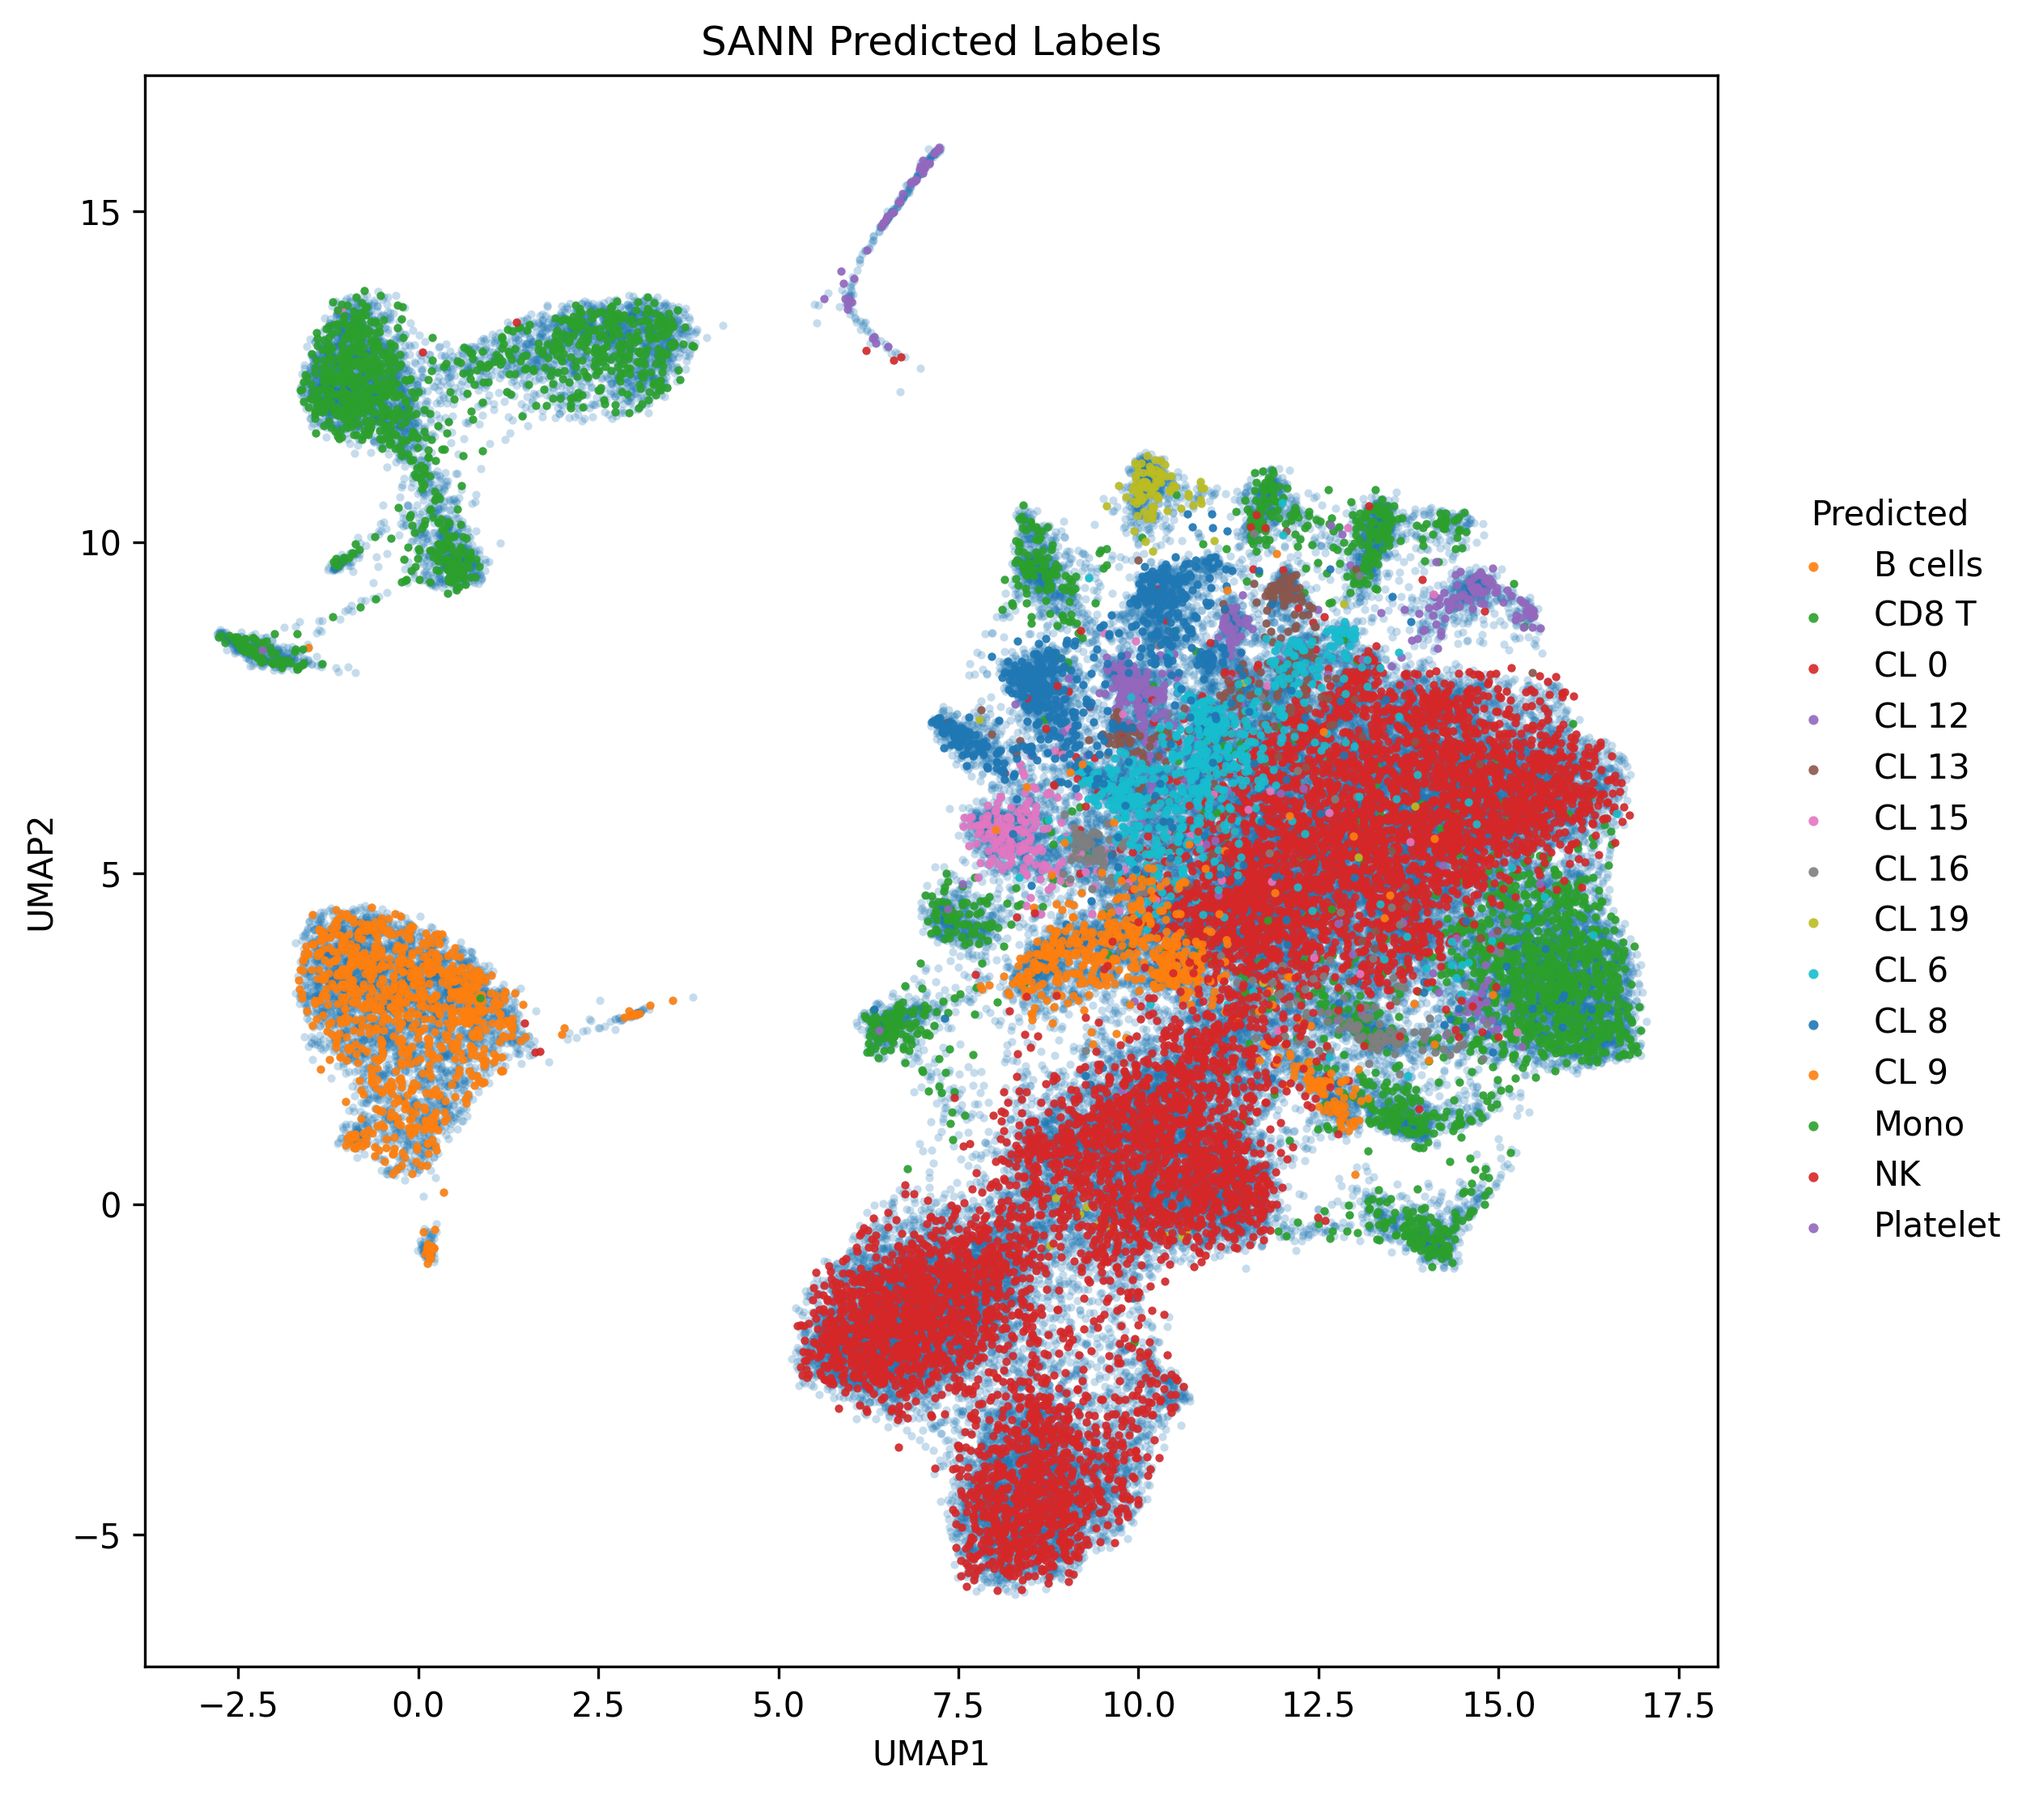
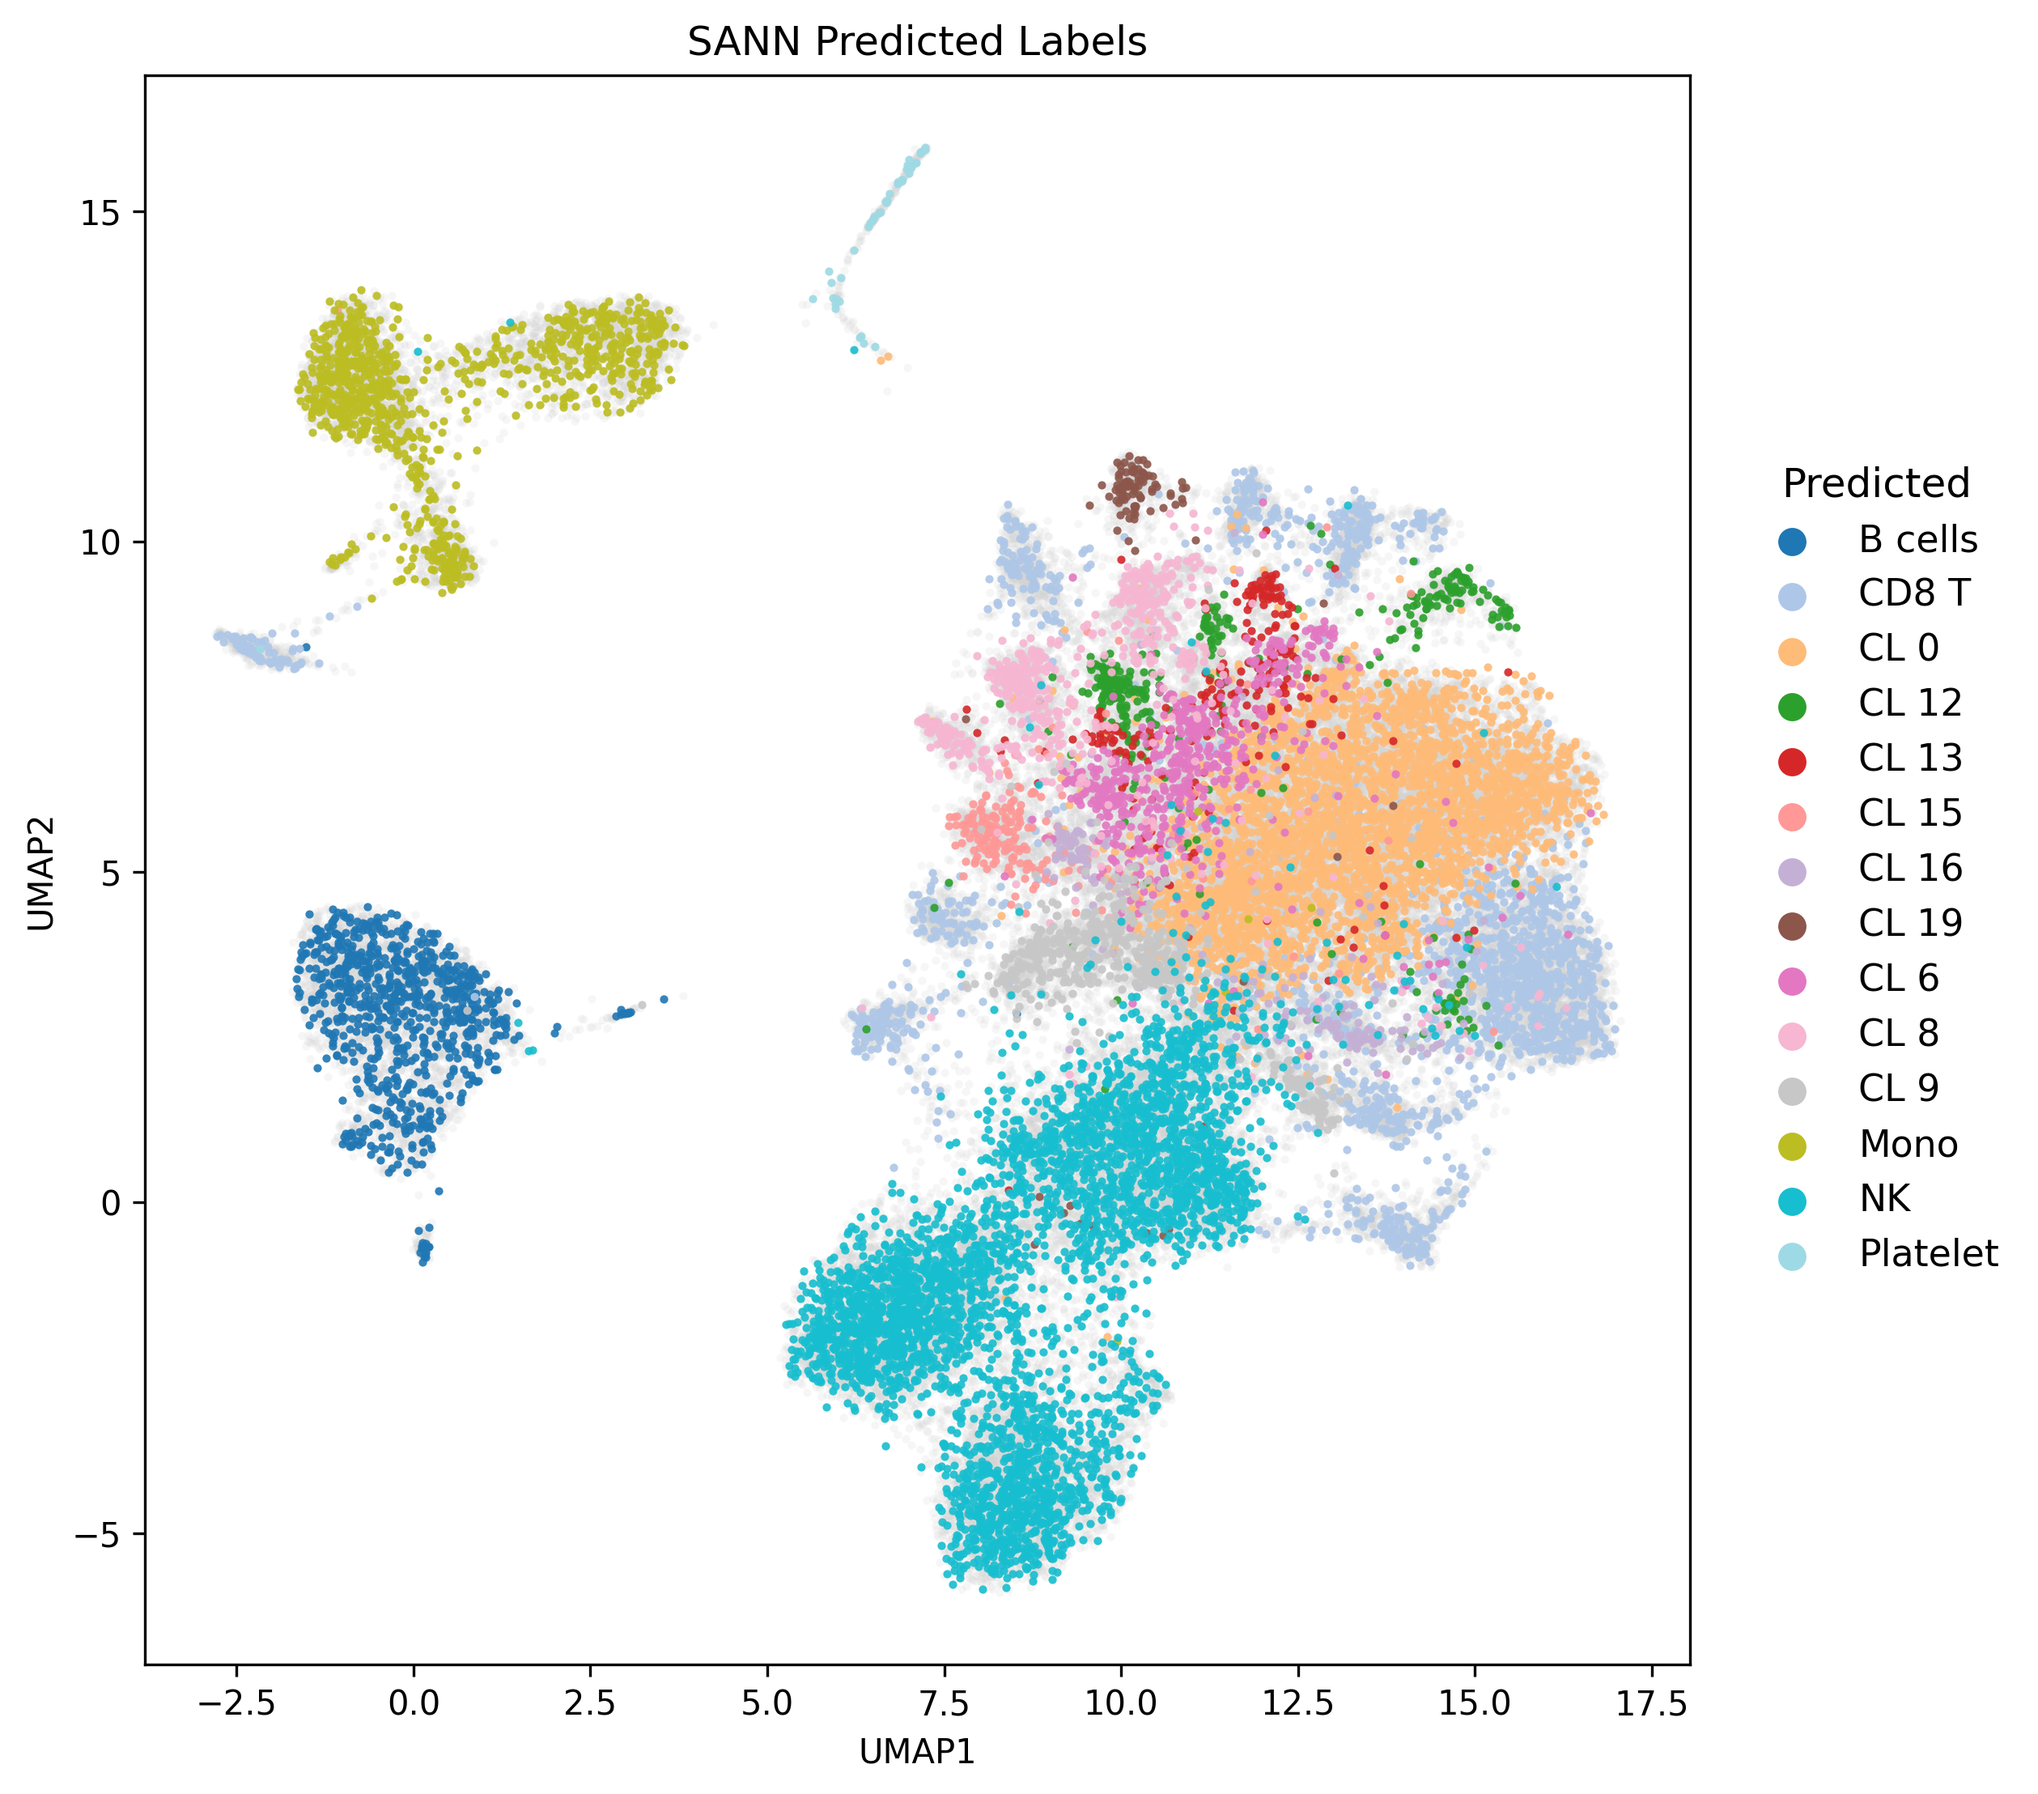
Umap adjusted and matched colors

diff --git a/src/plot_umap_true_labels.py b/src/plot_umap_true_labels.py
@@ -1,5 +1,4 @@
 import os
-import json
 import argparse
 
 import numpy as np
@@ -9,11 +8,9 @@ import matplotlib as mpl
 
 
 def parse_args():
-    p = argparse.ArgumentParser(description="Plot UMAP coloured by SANN predicted labels (test cells only).")
+    p = argparse.ArgumentParser(description="Plot UMAP coloured by TRUE labels using SAME palette + layout as SANN plot.")
     p.add_argument("--adata", type=str, default="data/processed/pbmc68k_labeled.h5ad")
-    p.add_argument("--splits", type=str, default="results/ablations/fixed_splits.json")
-    p.add_argument("--pred", type=str, default="results/sann_test_pred.npy")
-    p.add_argument("--out", type=str, default="results/figures/umap_pred_sann.png")
+    p.add_argument("--out", type=str, default="results/figures/umap_true_labels.png")
     p.add_argument("--umap_key", type=str, default="X_umap")
     p.add_argument("--label_key", type=str, default="cell_type")
 
@@ -28,21 +25,29 @@ def parse_args():
                    help="Matplotlib categorical cmap (e.g. tab20, tab20b, tab20c).")
 
     # legend appearance
-    p.add_argument("--legend_marker_size", type=float, default=70.0)
+    p.add_argument("--legend_marker_size", type=float, default=70.0)  # bigger swatches
     p.add_argument("--legend_markerscale", type=float, default=2.6)
     return p.parse_args()
 
 
 def build_palette(class_names, cmap_name="tab20"):
+    """
+    Deterministic mapping: class_name -> RGBA color.
+    Uses modern matplotlib colormaps API (no deprecation warning).
+    """
     cmap = mpl.colormaps.get_cmap(cmap_name).resampled(len(class_names))
     return {c: cmap(i) for i, c in enumerate(class_names)}
 
 
 def set_legend_marker_style(legend, marker_size=70.0):
+    """
+    Matplotlib-version-safe way to edit legend marker size/alpha.
+    """
     handles = getattr(legend, "legendHandles", None)
     if handles is None:
         handles = getattr(legend, "legend_handles", None)
     if handles is None:
+        # fallback
         try:
             handles = legend.legend_handles
         except Exception:
@@ -54,6 +59,7 @@ def set_legend_marker_style(legend, marker_size=70.0):
         except Exception:
             pass
         try:
+            # PathCollection from scatter
             h.set_sizes([marker_size])
         except Exception:
             pass
@@ -63,66 +69,32 @@ def main():
     args = parse_args()
     os.makedirs(os.path.dirname(args.out), exist_ok=True)
 
-    # 1) Load AnnData
     adata = sc.read_h5ad(args.adata)
 
     if args.umap_key not in adata.obsm:
         raise ValueError(f"UMAP not found: adata.obsm['{args.umap_key}'] missing.")
+    if args.label_key not in adata.obs:
+        raise ValueError(f"Label column missing: adata.obs['{args.label_key}'] not found.")
 
     umap = adata.obsm[args.umap_key]
     if umap.shape[1] < 2:
         raise ValueError(f"UMAP embedding must have at least 2 dims. Found shape: {umap.shape}")
 
-    if args.label_key not in adata.obs:
-        raise ValueError(f"Label column missing: adata.obs['{args.label_key}'] not found.")
-
-    # lock category order from dataset (must match training)
-    class_names = list(adata.obs[args.label_key].astype("category").cat.categories)
-    num_classes = len(class_names)
-    color_map = build_palette(class_names, args.palette)
-
-    # 2) Load split indices
-    with open(args.splits, "r") as f:
-        splits = json.load(f)
-    if "test_idx" not in splits:
-        raise ValueError(f"Split file must contain 'test_idx'. Found keys: {list(splits.keys())}")
-    test_idx = np.array(splits["test_idx"], dtype=int)
-
-    # 3) Load SANN predictions (class indices)
-    y_pred = np.load(args.pred).astype(int)
-
-    # 4) Checks
-    print(f"[Sanity] adata.n_obs: {adata.n_obs}")
-    print(f"[Sanity] UMAP key: {args.umap_key} | shape: {umap.shape}")
-    print(f"[Sanity] #classes: {num_classes}")
-    print(f"[Sanity] class names: {class_names}")
-    print(f"[Sanity] test_idx length: {len(test_idx)}")
-    print(f"[Sanity] sann_test_pred length: {len(y_pred)}")
-
-    if len(test_idx) != len(y_pred):
-        raise ValueError(f"Mismatch: len(test_idx)={len(test_idx)} but len(pred)={len(y_pred)}")
-
-    if y_pred.min() < 0 or y_pred.max() >= num_classes:
-        raise ValueError(
-            f"Pred values out of range. min={y_pred.min()}, max={y_pred.max()}, expected [0, {num_classes-1}]"
-        )
-
-    # 5) Create full-length predicted label column (NA for train cells)
-    full_pred = np.array(["NA"] * adata.n_obs, dtype=object)
-    pred_labels_test = np.array([class_names[i] for i in y_pred], dtype=object)
-    full_pred[test_idx] = pred_labels_test
-    adata.obs["sann_pred"] = full_pred
-
-    n_coloured = np.sum(adata.obs["sann_pred"].values != "NA")
-    print(f"[Sanity] #coloured points (should equal test_idx): {n_coloured}")
-
-    # 6) Plot UMAP
     x = umap[:, 0]
     y = umap[:, 1]
 
+    # lock category order
+    y_cat = adata.obs[args.label_key].astype("category")
+    class_names = list(y_cat.cat.categories)
+    color_map = build_palette(class_names, args.palette)
+
+    print(f"[Sanity] adata.n_obs: {adata.n_obs}")
+    print(f"[Sanity] #classes: {len(class_names)}")
+    print(f"[Sanity] class names: {class_names}")
+
     fig, ax = plt.subplots(figsize=(8.5, 7.5))
 
-    # background: FORCE GREY
+    # background GREY
     ax.scatter(
         x, y,
         s=args.point_size,
@@ -131,9 +103,10 @@ def main():
         c="lightgrey",
     )
 
-    # overlay only test cells by predicted label (consistent colors)
+    # overlay TRUE labels with fixed colors
+    y_true = y_cat.astype(str).values
     for cname in class_names:
-        mask = (adata.obs["sann_pred"].values == cname)
+        mask = (y_true == cname)
         if np.any(mask):
             ax.scatter(
                 x[mask], y[mask],
@@ -146,14 +119,14 @@ def main():
 
     ax.set_xlabel("UMAP1")
     ax.set_ylabel("UMAP2")
-    ax.set_title("SANN Predicted Labels")
+    ax.set_title("True Labels")
     ax.grid(False)
 
     legend = ax.legend(
         loc="center left",
         bbox_to_anchor=(1.02, 0.5),
         frameon=False,
-        title="Predicted",
+        title="True",
         markerscale=args.legend_markerscale,
         scatterpoints=1,
         fontsize=11,

diff --git a/src/merge_confusion_matrices.py b/src/merge_confusion_matrices.py
@@ -1,0 +1,129 @@
+# src/plot_confusion_matrices_combined.py
+import os
+import argparse
+import numpy as np
+import scanpy as sc
+import matplotlib.pyplot as plt
+from sklearn.metrics import confusion_matrix
+
+
+def parse_args():
+    p = argparse.ArgumentParser(description="Plot 3 confusion matrices side-by-side with ONE shared colorbar.")
+    p.add_argument("--data", type=str, default="data/processed/pbmc68k_labeled.h5ad")
+    p.add_argument("--label_key", type=str, default="cell_type")
+
+    p.add_argument("--lr_true", type=str, default="results/lr_test_true.npy")
+    p.add_argument("--lr_pred", type=str, default="results/lr_test_pred.npy")
+
+    p.add_argument("--xgb_true", type=str, default="results/xgb_test_true.npy")
+    p.add_argument("--xgb_pred", type=str, default="results/xgb_test_pred.npy")
+
+    p.add_argument("--sann_true", type=str, default="results/sann_test_true.npy")
+    p.add_argument("--sann_pred", type=str, default="results/sann_test_pred.npy")
+
+    p.add_argument("--out", type=str,
+                   default="results/figures/confusion_matrices_all_models.png")
+
+    p.add_argument("--dpi", type=int, default=300)
+
+    # Bigger labels
+    p.add_argument("--fig_w", type=float, default=18)
+    p.add_argument("--fig_h", type=float, default=6)
+    p.add_argument("--title_size", type=int, default=20)
+    p.add_argument("--panel_title_size", type=int, default=17)
+    p.add_argument("--tick_size", type=int, default=12)
+    p.add_argument("--axis_label_size", type=int, default=14)
+
+    p.add_argument("--max_label_len", type=int, default=16)
+    return p.parse_args()
+
+
+def shorten_labels(labels, max_len=16):
+    out = []
+    for s in labels:
+        s = str(s)
+        out.append(s if len(s) <= max_len else s[: max_len - 1] + "…")
+    return out
+
+
+def load_class_names(data_path: str, label_key: str):
+    adata = sc.read_h5ad(data_path)
+    y_cat = adata.obs[label_key].astype("category")
+    return list(y_cat.cat.categories)
+
+
+def load_arrays(true_path: str, pred_path: str):
+    y_true = np.load(true_path).astype(int)
+    y_pred = np.load(pred_path).astype(int)
+    return y_true, y_pred
+
+
+def row_norm_cm(y_true, y_pred, n_classes):
+    labels = np.arange(n_classes)
+    cm = confusion_matrix(y_true, y_pred, labels=labels).astype(float)
+    row_sums = cm.sum(axis=1, keepdims=True)
+    cm = np.divide(cm, row_sums, out=np.zeros_like(cm), where=row_sums != 0)
+    return cm
+
+
+def plot_panel(ax, cm, title, tick_labels, args):
+    im = ax.imshow(cm, cmap="Blues", vmin=0, vmax=1, aspect="auto")
+
+    ax.set_title(title, fontsize=args.panel_title_size)
+    ax.set_xlabel("Predicted label", fontsize=args.axis_label_size)
+    ax.set_ylabel("True label", fontsize=args.axis_label_size)
+
+    ax.set_xticks(np.arange(len(tick_labels)))
+    ax.set_yticks(np.arange(len(tick_labels)))
+
+    ax.set_xticklabels(tick_labels, fontsize=args.tick_size, rotation=45, ha="right")
+    ax.set_yticklabels(tick_labels, fontsize=args.tick_size)
+
+    ax.grid(False)
+    return im
+
+
+def main():
+    args = parse_args()
+    os.makedirs(os.path.dirname(args.out), exist_ok=True)
+
+    class_names = load_class_names(args.data, args.label_key)
+    n_classes = len(class_names)
+    tick_labels = shorten_labels(class_names, args.max_label_len)
+
+    lr_true, lr_pred = load_arrays(args.lr_true, args.lr_pred)
+    xgb_true, xgb_pred = load_arrays(args.xgb_true, args.xgb_pred)
+    sann_true, sann_pred = load_arrays(args.sann_true, args.sann_pred)
+
+    cm_lr = row_norm_cm(lr_true, lr_pred, n_classes)
+    cm_xgb = row_norm_cm(xgb_true, xgb_pred, n_classes)
+    cm_sann = row_norm_cm(sann_true, sann_pred, n_classes)
+
+    fig, axes = plt.subplots(1, 3, figsize=(args.fig_w, args.fig_h),
+                             constrained_layout=True)
+
+    fig.suptitle("Confusion Matrices (Row-normalised)",
+                 fontsize=args.title_size)
+
+    im0 = plot_panel(axes[0], cm_lr, "Logistic Regression",
+                     tick_labels, args)
+    im1 = plot_panel(axes[1], cm_xgb, "XGBoost",
+                     tick_labels, args)
+    im2 = plot_panel(axes[2], cm_sann, "SANN",
+                     tick_labels, args)
+
+    # ONE shared colorbar
+    cbar = fig.colorbar(im2, ax=axes.ravel().tolist(),
+                        shrink=0.92, pad=0.02)
+    cbar.set_label("Row-normalised proportion",
+                   fontsize=args.axis_label_size)
+    cbar.ax.tick_params(labelsize=args.tick_size)
+
+    fig.savefig(args.out, dpi=args.dpi, bbox_inches="tight")
+    plt.close(fig)
+
+    print(f"[Saved] {args.out}")
+
+
+if __name__ == "__main__":
+    main()
